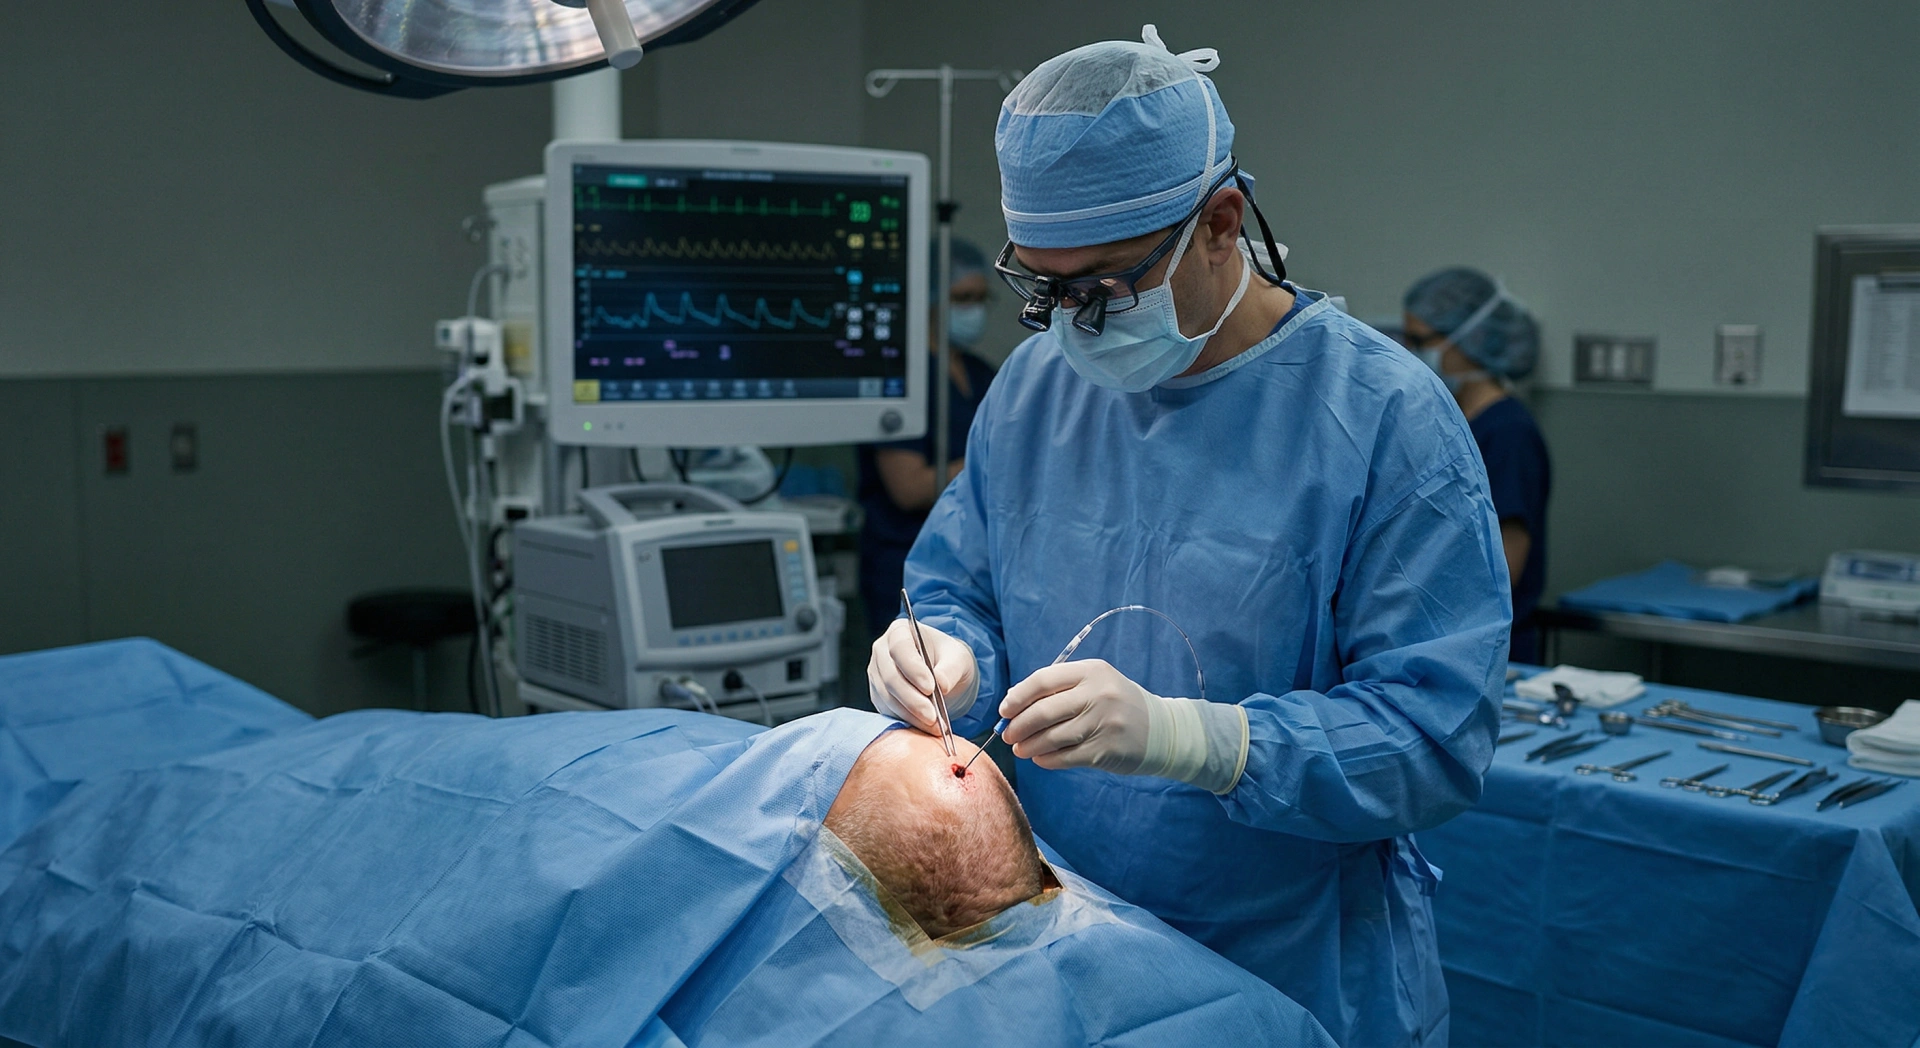
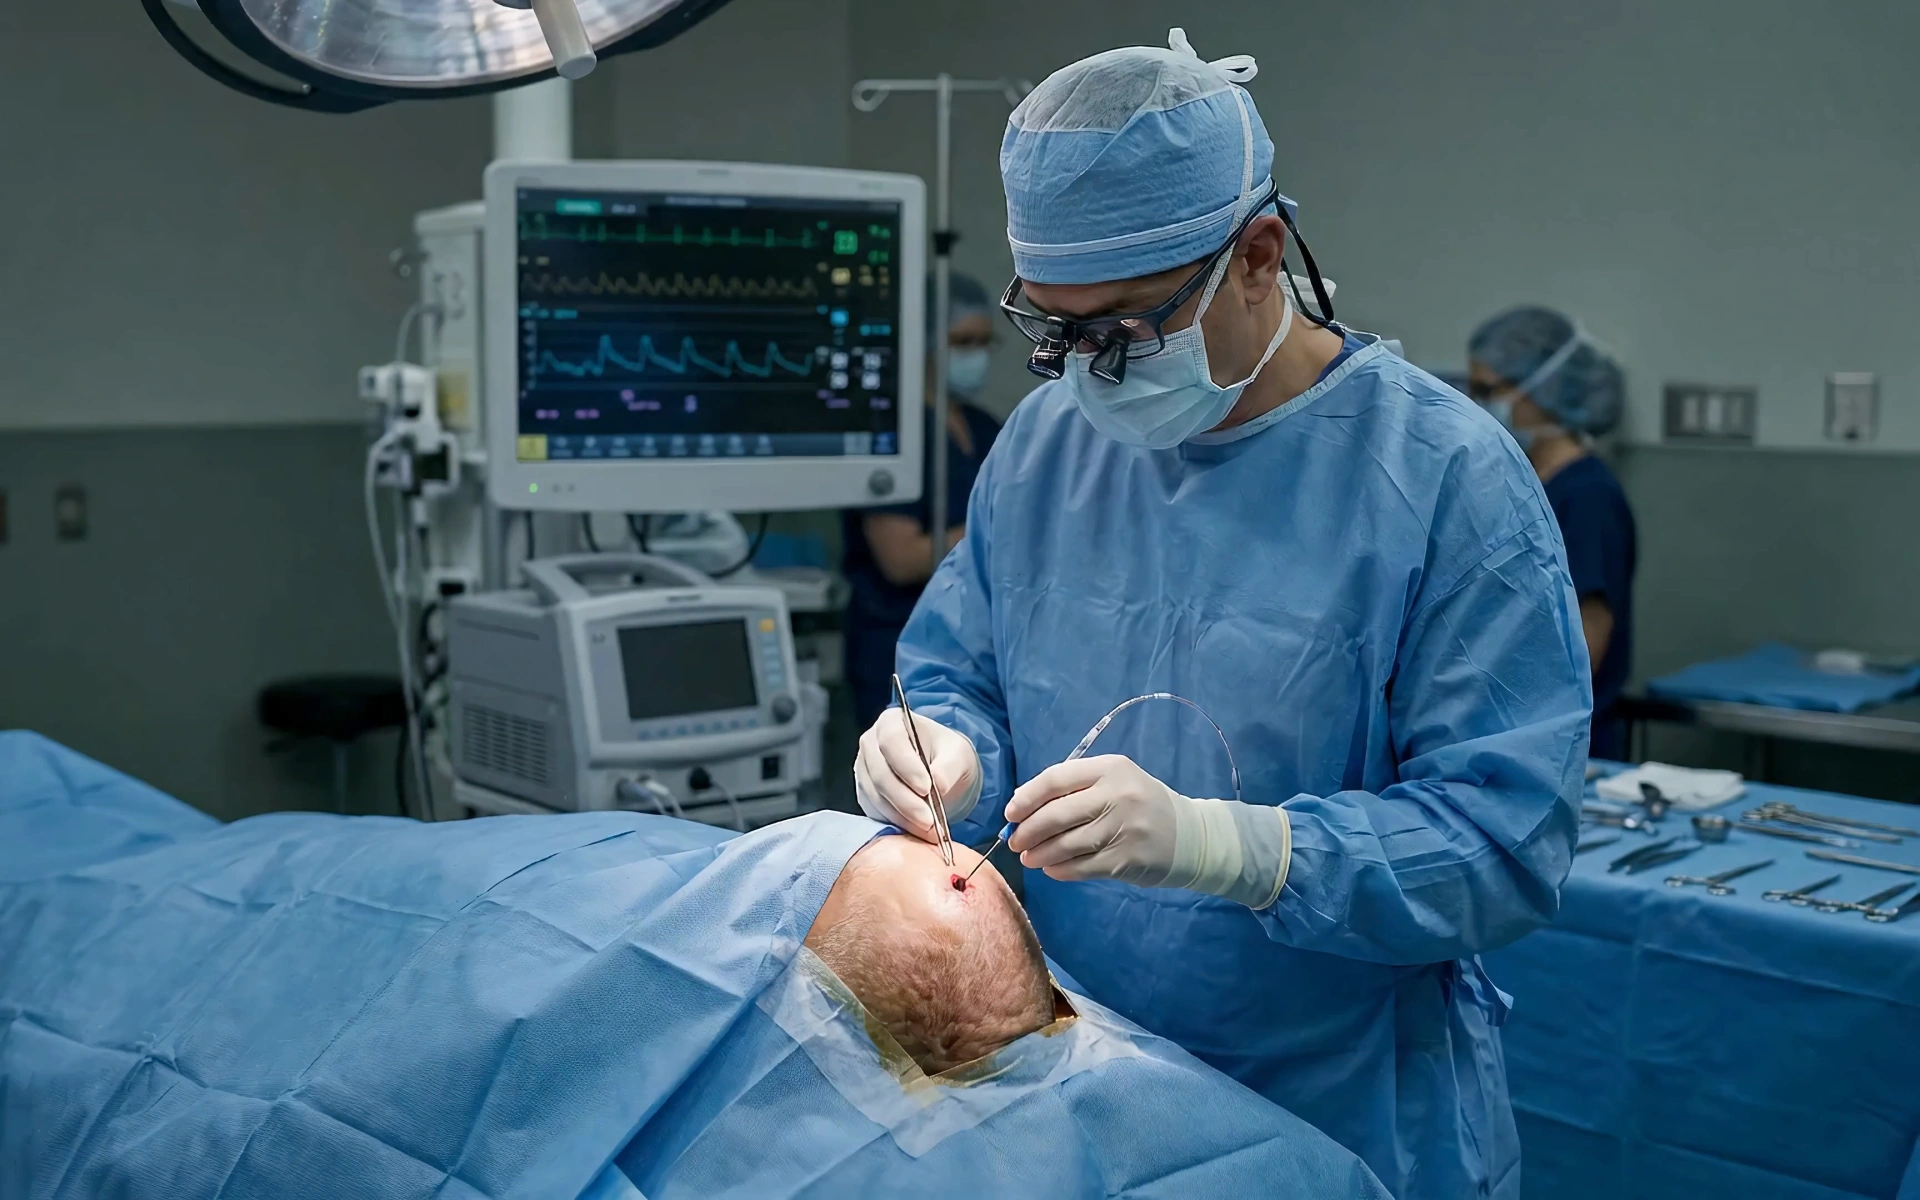
fix: make each clip's poster its first frame
Five posters were the stills the clips were made from, framed and lit
differently from the clip's first frame, so the picture jumped when
playback started: the compact SCOS device changed from a close-up to a
wider room shot. The posters are now the first frame of the original
clip, WebP q95 as before (SSIM 0.98 to 0.99 against the served clip's
first frame), and 1578 KB become 1029 KB. The prelude and
cross-validation posters already matched.

diff --git a/AGENTS.md b/AGENTS.md
@@ -163,12 +163,14 @@ pnpm test:e2e     # Playwright end-to-end tests (reuses or starts a dev server; 
   `public/` layout. That folder is never served
 - Renaming an asset means updating every reference in `src/app/`; verify none are left behind
 - Videos are H.264 MP4 at CRF 20, at most 1920 px wide, without an audio track, encoded
-  with `-movflags +faststart`, and always have a WebP `poster` at quality 95:
+  with `-movflags +faststart`, and always have a WebP `poster` at quality 95. The poster is
+  the clip's first frame, so the picture does not jump when playback starts:
 
   ```bash
   ffmpeg -i assets/originals/<slide>/<clip>.mp4 -an -vf "scale='min(1920,iw)':-2:flags=lanczos" \
     -c:v libx264 -preset slow -crf 20 -pix_fmt yuv420p -movflags +faststart public/<slide>/<clip>.mp4
-  cwebp -q 95 -resize 1920 0 assets/originals/<slide>/<poster>.jpg -o public/<slide>/<poster>.webp
+  ffmpeg -i assets/originals/<slide>/<clip>.mp4 -frames:v 1 poster.png
+  cwebp -q 95 -resize_mode down_only -resize 1920 0 poster.png -o public/<slide>/<poster>.webp
   ```
 
 ## Skill routing
